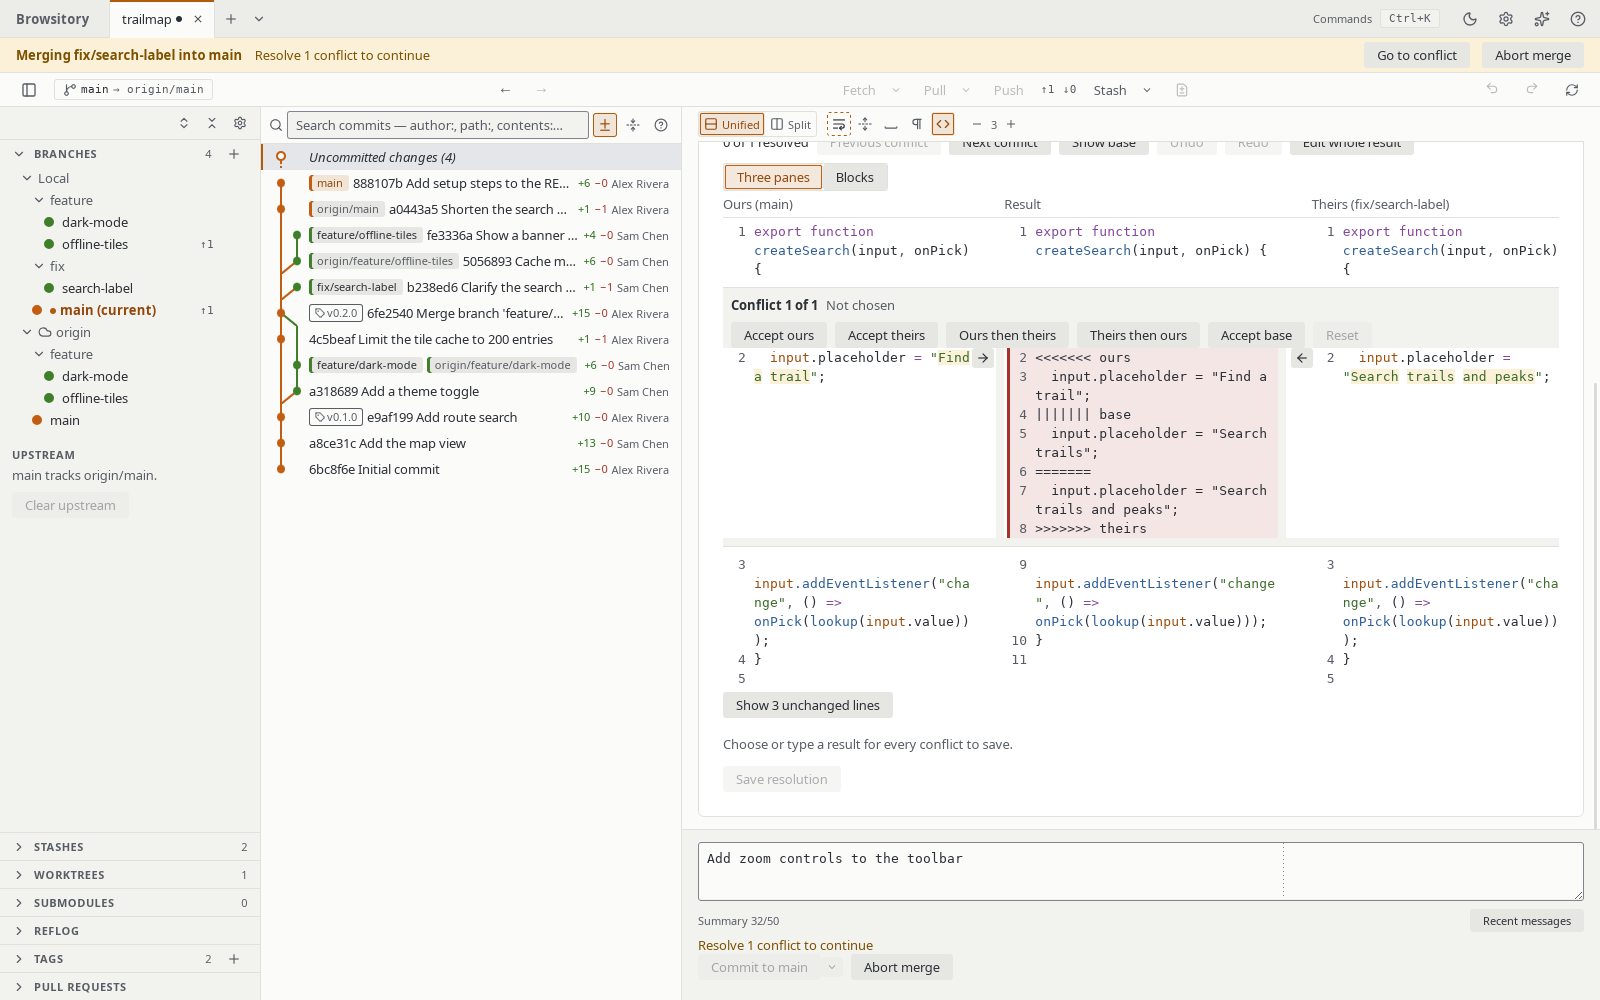
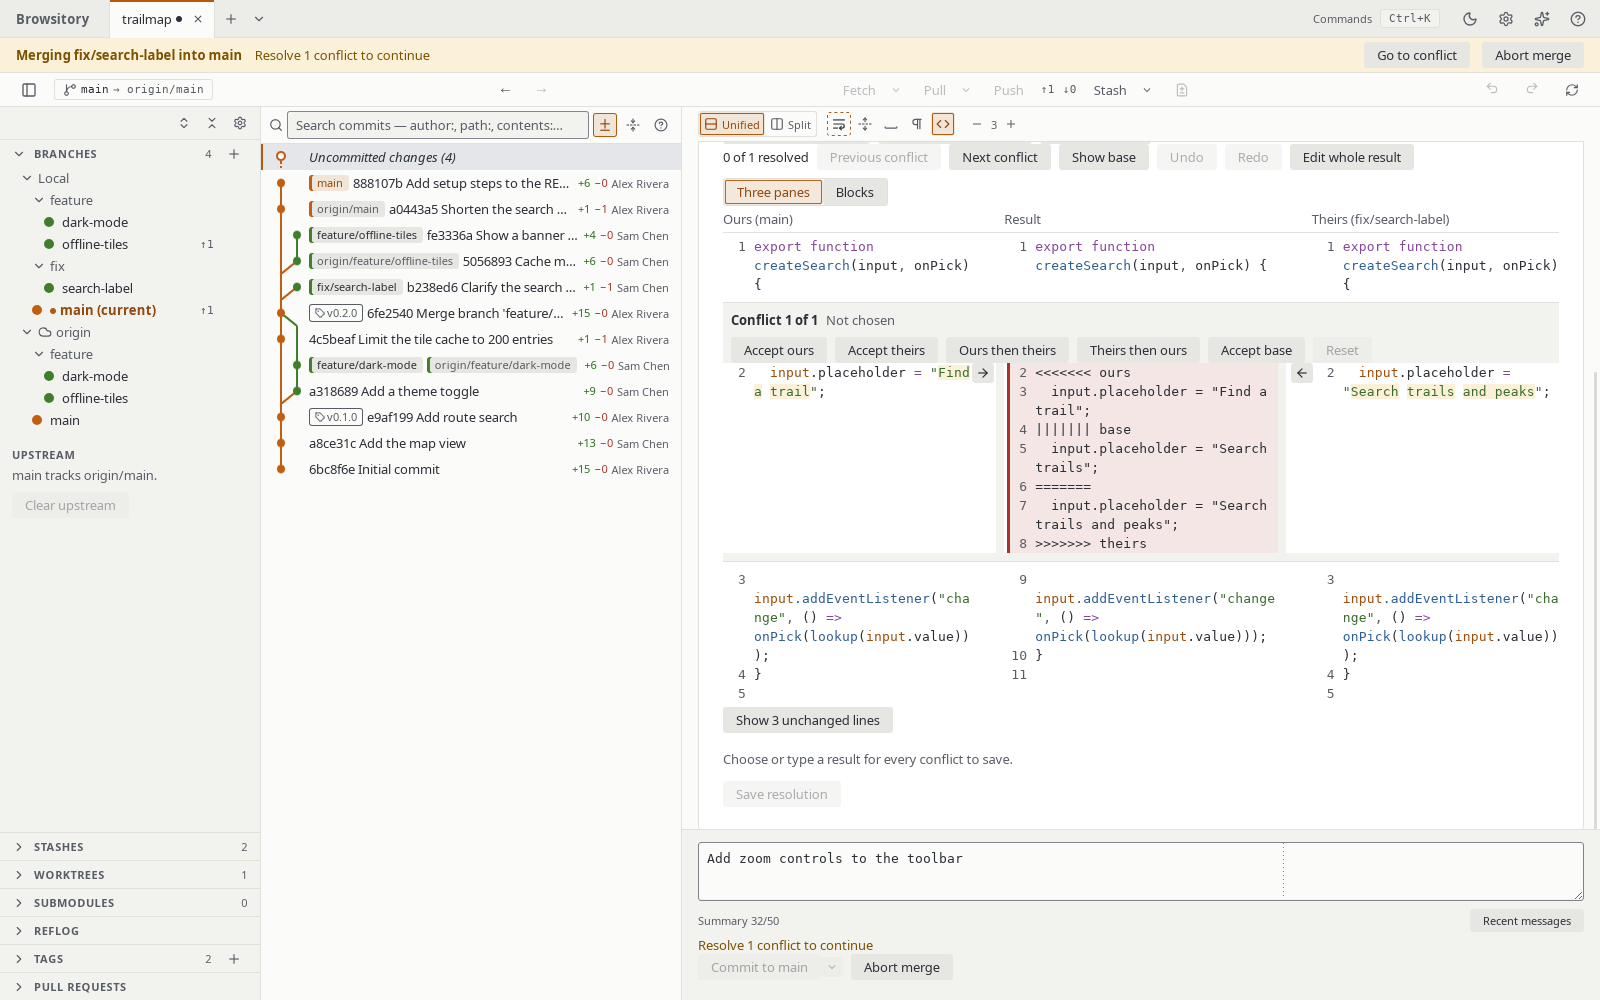
Merge editor screenshot: keep the toolbar row in the shot (#944) (#945)
The merge-editor shot scrolled the conflict block to the top of the pane,
which cut off the editor's toolbar ("0 of 1 resolved", Previous conflict).
It now scrolls to that toolbar and stops just below the pane's sticky
"Diff view options" row, which would otherwise cover it. The three panes
and the whole conflict block still fit below.

Recaptured with e2e/screenshots/capture.sh; only merge-editor.png is
committed (the other shots differ by run-to-run noise only).

Claude-Session: https://claude.ai/code/session_01A4tHCJjnzi8pBrcnnZcgkk

diff --git a/e2e/screenshots/capture.docs.ts b/e2e/screenshots/capture.docs.ts
@@ -188,7 +188,26 @@ describe("Documentation screenshots", () => {
     const block = await $('section[aria-label="Conflict 1 of 1"]');
     await block.waitForExist();
     await waitUntilInPage('button[aria-pressed="true"]', "Three panes");
-    await browser.execute((el) => (el as HTMLElement).scrollIntoView({ block: "start" }), block);
+    // Scroll to the editor's toolbar ("0 of 1 resolved", Previous conflict), not to the block:
+    // the block at the top cut the toolbar off (#944). The block still fits below it. The pane's
+    // sticky "Diff view options" row covers the top of the scroll area: stop below it.
+    const toolbar = await $('[role="group"][aria-label="Conflicts"]');
+    await toolbar.waitForExist();
+    const options = await $('[role="group"][aria-label="Diff view options"]');
+    await browser.execute(
+      (el, sticky) => {
+        const target = el as HTMLElement;
+        target.scrollIntoView({ block: "start" });
+        let scroller = target.parentElement;
+        while (scroller && !/(auto|scroll)/.test(getComputedStyle(scroller).overflowY)) {
+          scroller = scroller.parentElement;
+        }
+        const below = (sticky as HTMLElement).getBoundingClientRect().bottom + 2;
+        scroller?.scrollBy(0, target.getBoundingClientRect().top - below);
+      },
+      toolbar,
+      options,
+    );
     await shoot("merge-editor");
     await browser.setWindowSize(WINDOW.width, WINDOW.height);
   });

diff --git a/changelog.d/944-merge-editor-screenshot.md b/changelog.d/944-merge-editor-screenshot.md
@@ -1,0 +1,4 @@
+### Internal
+
+- Fixed: the guide's merge editor screenshot cut off the editor's toolbar row ("0 of 1
+  resolved", Previous conflict); the capture now scrolls to the toolbar (#944).
